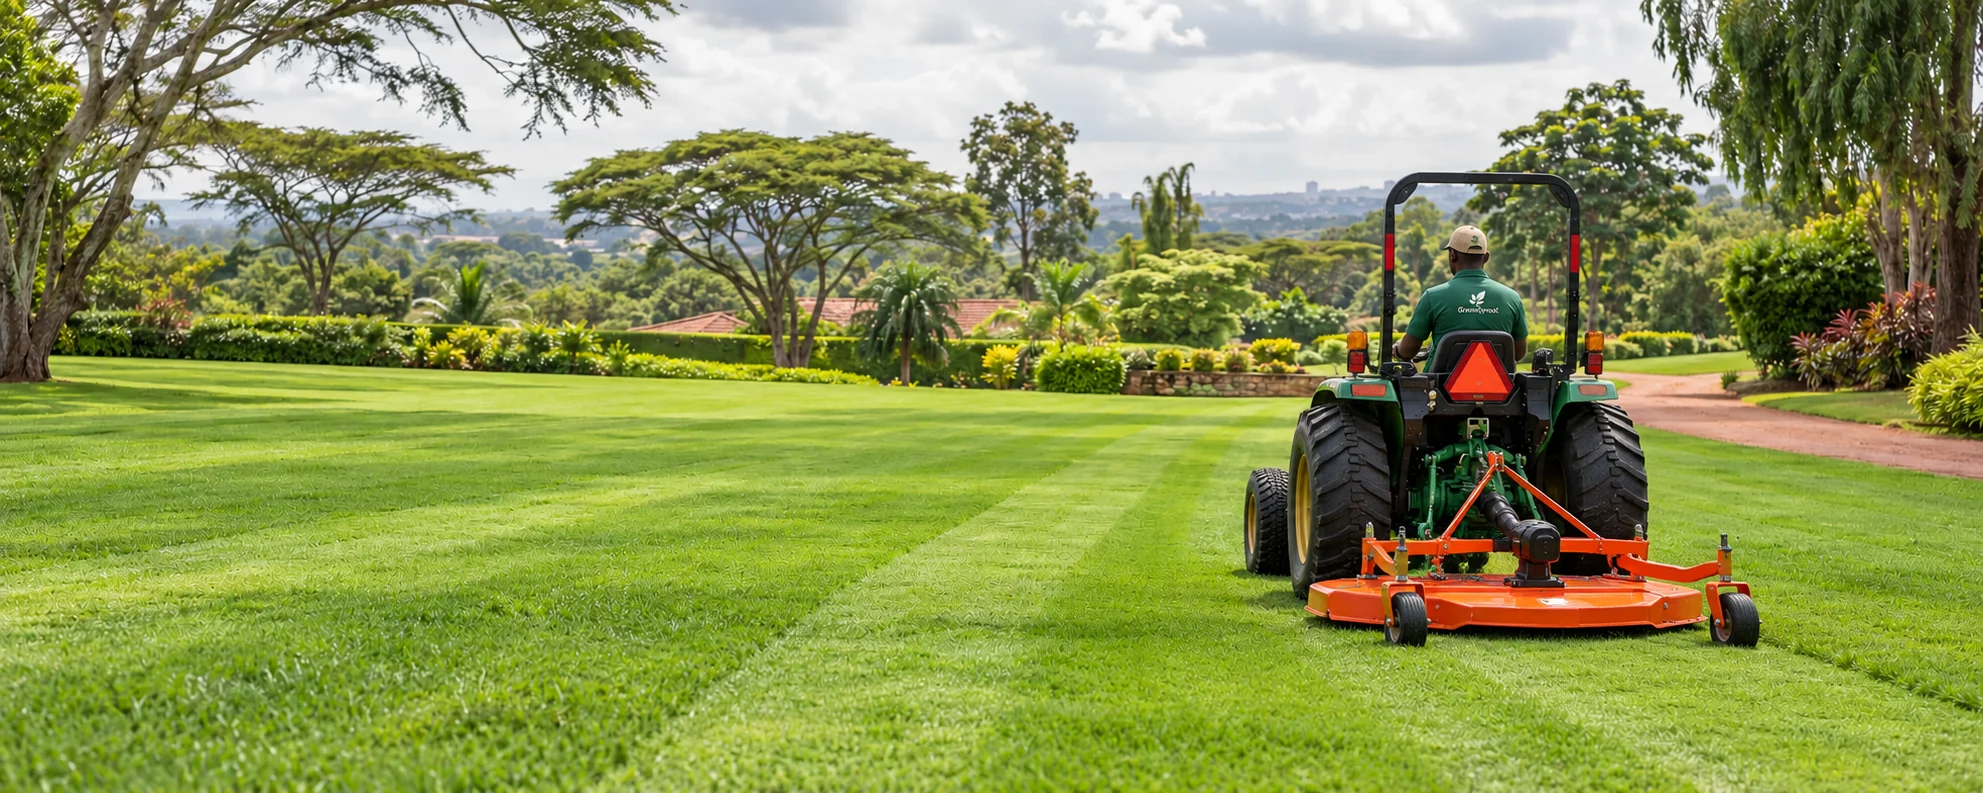
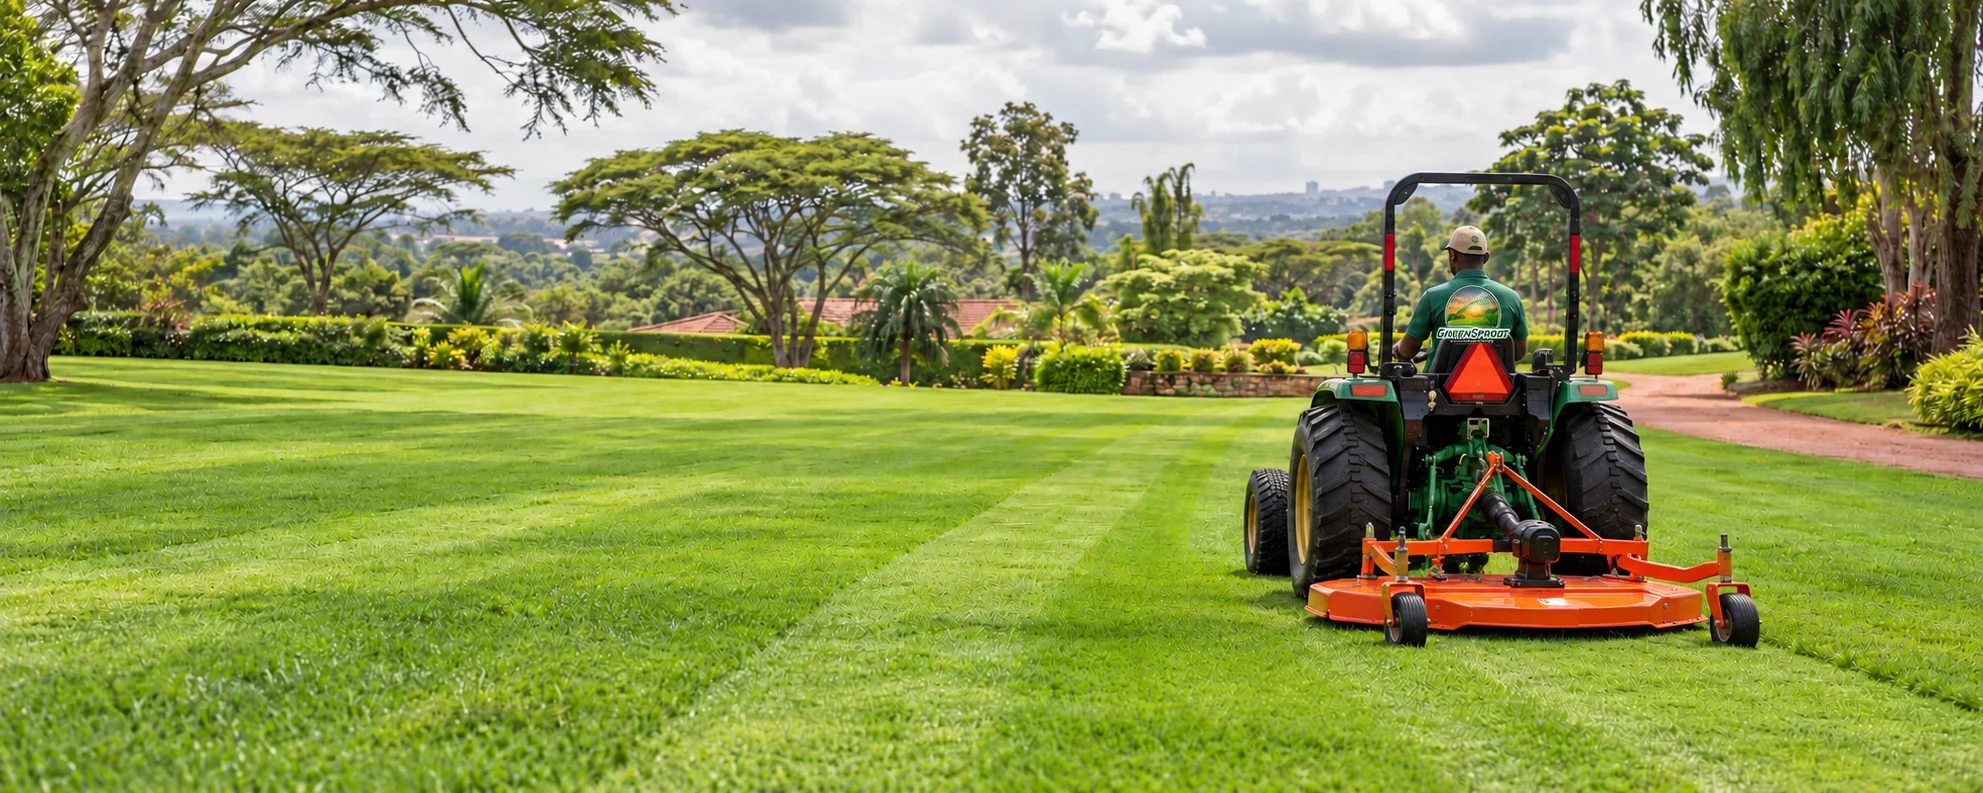
Added the new service

diff --git a/src/app/services/[slug]/page.tsx b/src/app/services/[slug]/page.tsx
@@ -9,7 +9,6 @@ import { SiteFooter } from "@/components/layout/site-footer";
 import { SiteHeader } from "@/components/layout/site-header";
 import { ButtonLink } from "@/components/ui/button-link";
 import { LawnServicePage } from "@/components/services/lawn-service-page";
-import { FutureServicePage } from "@/components/services/future-service-page";
 import { getService, services } from "@/data/services";
 
 export function generateStaticParams() { return services.map(({ slug }) => ({ slug })); }
@@ -18,12 +17,11 @@ export async function generateMetadata({ params }: { params: Promise<{ slug: str
 export default async function ServicePage({ params }: { params: Promise<{ slug: string }> }) {
   const service=getService((await params).slug); if(!service) notFound();
   if (service.slug === "lawn-care-maintenance" || service.slug === "sod-installation-landscaping") return <LawnServicePage slug={service.slug}/>;
-  if (service.availability === "coming-soon") return <FutureServicePage service={service}/>;
   const hydro=service.slug === "hydroseeding";
   const future=service.availability === "coming-soon";
   return <><SiteHeader/><main>
     <section className="service-hero"><Image src={service.heroImage} alt={service.name} fill priority sizes="100vw"/><div className="service-hero-shade"/><div className="page-shell service-hero-content"><p className="eyebrow light">{future ? "Future service · Coming soon" : "GreenSprout service"}</p><h1>{service.name}</h1><p>{service.short}</p><ButtonLink href={`/quote?service=${service.slug}`} label={future ? "Discuss a future project" : "Request a quotation"} variant="light"/></div></section>
-    {future && <div className="service-future-note page-shell"><strong>Coming soon</strong><p>This specialist service is planned for a future phase. We can discuss your site now and explain any assessment or traditional lawn service currently relevant to your project.</p></div>}
+    {future && <section className="service-future-banner" aria-label={`${service.name} availability`}><Image src={service.heroImage} alt="" fill sizes="100vw"/><div className="service-future-banner-shade"/><div className="page-shell service-future-banner-content"><span>COMING SOON</span><h2>This service is planned for a future phase.</h2><p>Explore the full service information below. GreenSprout is not yet taking bookings for this work; we can discuss your site and available options in the meantime.</p></div></section>}
     <section className="service-explainer"><div className="page-shell service-explainer-grid"><div className="service-explainer-image"><Image src={service.gallery[0]} alt={`${service.name} in practice`} fill sizes="(max-width:900px) 100vw, 48vw"/></div><div className="service-explainer-copy"><p className="eyebrow">Understanding the service</p><h2>{hydro ? "A modern way to establish natural grass across prepared ground." : `What ${service.name.toLowerCase()} means for your site.`}</h2><p className="service-lead">{service.definition}</p>{service.explanation.map((paragraph)=><p key={paragraph}>{paragraph}</p>)}<Link href={`/quote?service=${service.slug}`}>Discuss your site <ArrowRight/></Link></div></div></section>
     {service.slug === "site-assessment" && <section className="p12-service-context"><div className="page-shell"><p className="eyebrow">Choose the right visit</p><h2>Advice on site or a detailed survey?</h2><p>An on-site consultation starts at KSh 15,000. A more detailed site survey starts at KSh 25,000. We agree on the visit, report and any travel or laboratory costs before booking.</p><Link href="/consulting#individual-services">Compare assessment options <ArrowRight size={18}/></Link></div></section>}
     {service.slug === "project-support" && <section className="p12-service-context"><div className="page-shell"><p className="eyebrow">Delivery support</p><h2>Coordination with a clear scope.</h2><p>Supplier and contractor coordination, site supervision, quality checks and handover can be agreed as one assignment or selected individually. The fee is quoted after we understand the project and what is already included in any consulting package.</p><Link href="/consulting#coordination">Explore project coordination <ArrowRight size={18}/></Link></div></section>}

diff --git a/src/app/globals.css b/src/app/globals.css
@@ -609,9 +609,13 @@ button,a,input { font: inherit; } a { color: inherit; text-decoration: none; } i
 .future-heading { padding-top:clamp(4rem,7vw,7rem); }
 .future-services-grid .services-grid-card { opacity:.94; }
 .availability-tag { position:absolute; top:1.25rem; right:1.25rem; z-index:2; padding:.5rem .72rem; background:#f2f4e9; color:#214a37; font-size:.65rem; font-weight:900; font-style:normal; letter-spacing:.06em; text-transform:uppercase; }
-.service-future-note { display:flex; gap:1.2rem; align-items:center; padding-block:1.1rem; border-bottom:1px solid #c8d7c8; }
-.service-future-note strong { white-space:nowrap; color:#235a40; text-transform:uppercase; letter-spacing:.08em; font-size:.75rem; }
-.service-future-note p { margin:0; font-size:.86rem; }
+.service-future-banner { position:relative; isolation:isolate; color:#fff; background:#102b21; overflow:hidden; }
+.service-future-banner>img { object-fit:cover; object-position:center 55%; z-index:-2; }
+.service-future-banner-shade { position:absolute; inset:0; z-index:-1; background:linear-gradient(90deg,rgba(9,31,23,.96),rgba(9,31,23,.84) 65%,rgba(9,31,23,.72)); }
+.service-future-banner-content { padding-block:3.5rem; }
+.service-future-banner-content span { display:inline-block; padding:.55rem .8rem; border:1px solid rgba(255,255,255,.65); font-size:.72rem; font-weight:700; letter-spacing:.17em; }
+.service-future-banner-content h2 { max-width:17ch; margin:1.25rem 0 .75rem; font-size:clamp(1.9rem,3.8vw,3.6rem); line-height:1.1; letter-spacing:-.045em; }
+.service-future-banner-content p { max-width:42rem; margin:0; line-height:1.7; color:#ecf1e9; }
 .industry-coming { display:inline-block; position:relative; z-index:2; margin:.5rem 0; padding:.35rem .6rem; background:#f2f4e9; color:#163a28; font-style:normal; font-size:.68rem; font-weight:850; text-transform:uppercase; letter-spacing:.05em; }
 .quote-future-message { padding:1.1rem 1.3rem; background:#eff4eb; border-left:3px solid #35664c; font-size:.86rem; line-height:1.6; }
 .lawn-quote-fields { display:grid; gap:1.2rem; padding:1.5rem; border-left:3px solid #285b45; background:#f1f5ef; }
@@ -634,7 +638,7 @@ button,a,input { font: inherit; } a { color: inherit; text-decoration: none; } i
  .lsp-steps { grid-template-columns:1fr; }
  .lsp-steps article { min-height:10rem; }
  .lsp-next { align-items:flex-start; flex-direction:column; }
- .service-future-note { display:block; } .service-future-note p { margin-top:.45rem; }
+ .service-future-banner-content { padding-block:2.8rem; }
  .industry-service-grid-four { grid-template-columns:1fr; }
 }
 

diff --git a/IMAGE-SOURCES.md b/IMAGE-SOURCES.md
@@ -48,6 +48,6 @@ Six new photorealistic illustrative concept images were generated specifically f
 | `sod-detail.webp` | Close view of turf rolls, fitting seams and proposed field uniform |
 | `sod-before-after.webp` | Two-panel conceptual bare-ground-to-turf comparison |
 
-The four action scenes above were regenerated from the prior page images using the user's three mower photographs, proposed uniform board and exact GreenSprout Hydroseeding logo as references. The orange deck is a grooming/finish mower attached to a tractor's rear three-point hitch and PTO, intended for maintained turf; it is not a ride-on collecting mower, flail mulcher or brush cutter. The staff clothing is a **proposed uniform visualization**. AI-generated embroidery is approximate at photographic scale; the original `public/brand/greensprout-logo.png` is the master for any actual uniform production.
+The four action scenes above were regenerated from the prior page images using the user's three mower photographs, proposed uniform board and exact GreenSprout Hydroseeding logo as references. The orange deck is a grooming/finish mower attached to a tractor's rear three-point hitch and PTO, intended for maintained turf; it is not a ride-on collecting mower, flail mulcher or brush cutter. In a corrective pass, the mistaken simplified leaf badges were replaced with the distinctive arched landscape form of the supplied logo. The staff clothing is a **proposed uniform visualization**. AI-generated small lettering remains approximate at photographic scale; the exact supplied `public/brand/greensprout-logo.png` is the master for actual uniform production.
 
 The paired before/after scenes are labelled *illustrative* on the pages and are not presented as evidence of completed GreenSprout projects. The embedded third-party videos are credited on-page and linked to their creators: K.A.T.'s finishing-mower demonstration (https://www.youtube.com/watch?v=T1BEsBs5kZo) and Lowe's sod installation guide (https://www.youtube.com/watch?v=t9GHY-gQFho). They are educational examples, not GreenSprout footage or owned equipment.

diff --git a/PHASE-17-NOTES.md b/PHASE-17-NOTES.md
@@ -1,0 +1,7 @@
+# GreenSprout corrective patch
+
+Apply after the earlier lawn-services and grooming-mower patches. It restores the **full** service page template for Hydroseeding, Erosion control, Landscape establishment and Land rehabilitation: explanations, suitability cards, benefits, process, gallery and hydroseeding FAQ remain visible. Each planned service receives a prominent dark Coming Soon banner after its hero, and its enquiry language identifies future availability.
+
+Four illustrative action images have been revised again using the exact supplied GreenSprout Hydroseeding logo reference rather than the simplified leaf symbol on the proposed uniform. The real uploaded logo asset is included unchanged at `public/brand/greensprout-logo.png`. Tiny AI-generated embroidery cannot be treated as production artwork; use that master logo file when commissioning uniforms. No photos are represented as a completed GreenSprout project or owned equipment.
+
+This ZIP is an overlay rooted at the existing project directory. It includes only changed files; extracting it over the previous installed phases updates the website directly.
